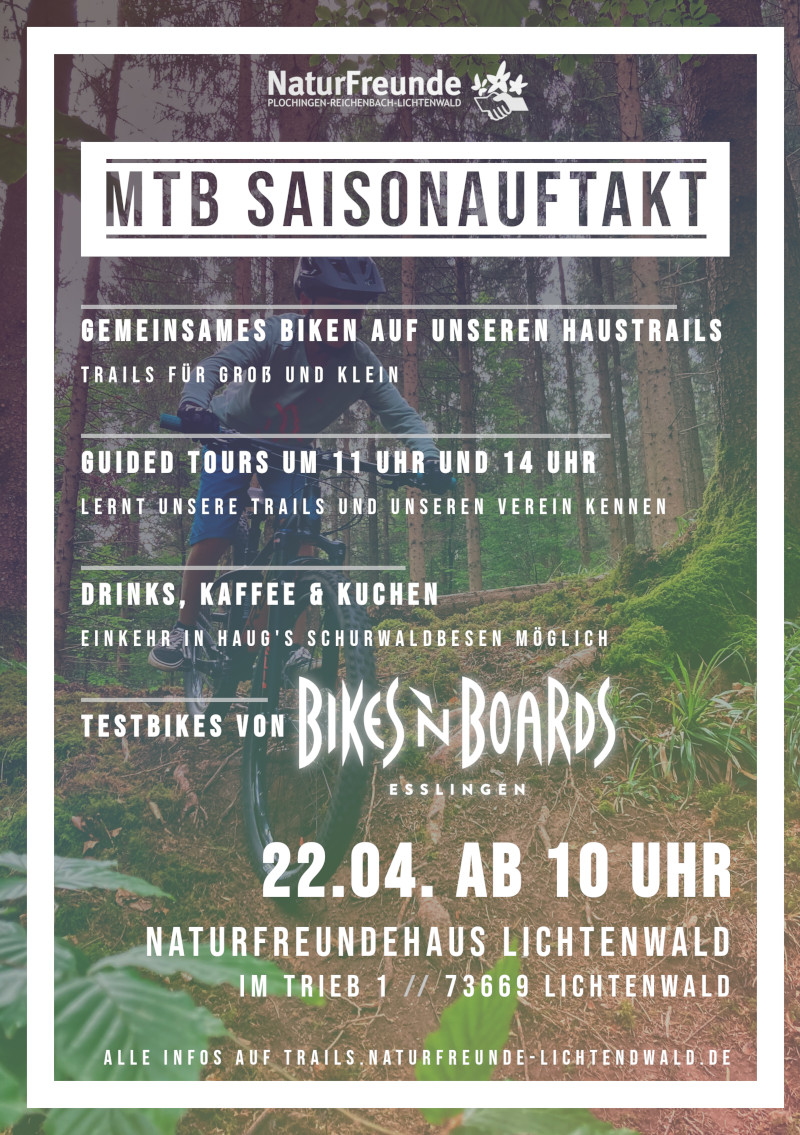
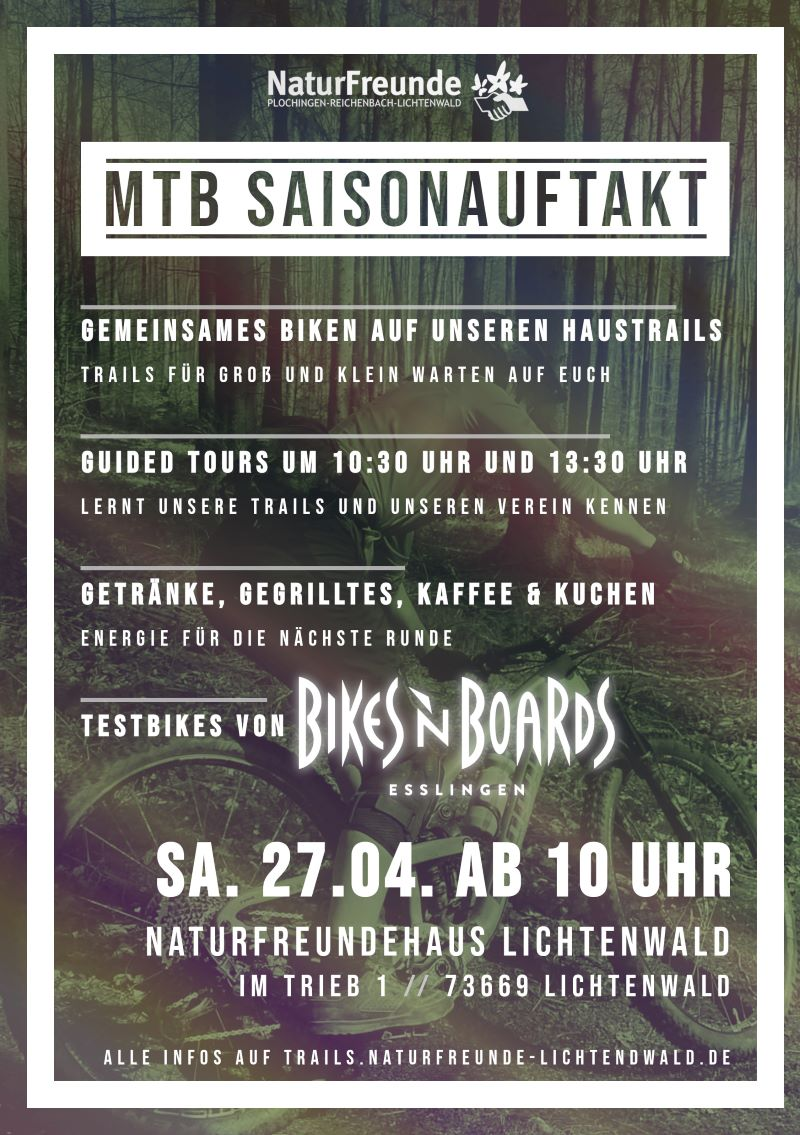
updated events for 2024

diff --git a/pages/events/index.js b/pages/events/index.js
@@ -5,16 +5,15 @@ export default function Events() {
   return (
     <div className="container">
       <Head>
-        <title>NaturFreunde Lichtenwald - MTB Saisonauftakt 2023</title>
+        <title>NaturFreunde Lichtenwald - MTB Saisonauftakt 2024</title>
         <link rel="icon" href="/favicon.ico" />
       </Head>
       <main className="main">
         <Navigation />
         <div>
-          <h1>MTB Saisonauftakt 2023</h1>
+          <h1>MTB Saisonauftakt 2024</h1>
           <p>
-            Wir laden euch herzlichst zu unserem Mountainbike Saisonauftakt 2023
-            ein.<br/>
+            Unser Mountainbike Saisonauftakt geht 2024 nach dem letztjährigen erfolgreichen und erlebnisreichen Debüt in die zweite Runde!<br/>
             Direkt bei unserem wunderschön gelegenen NaturFreundehaus wollen wir mit euch den Start in die Saison feiern.<br/><br/>
             Auf dieser Seite erfahrt ihr alle notwendigen Infos und wir werden sie stes aktualisieren.<b/>
             Bei Fragen kontaktiert uns gerne über <a className="actionLink" href="mailto:trails@naturfreunde-lichtenwald.de">trails@naturfreunde-lichtenwald.de</a>.
@@ -33,7 +32,7 @@ export default function Events() {
           <ul>
             <li>
               <a className="actionLink" href="#kaffee">
-                Drinks, Kaffee und Kuchen
+                Getränke, Gegrilltes, Kaffee & Kuchen
               </a>
             </li>
             <li>
@@ -54,16 +53,18 @@ export default function Events() {
           </ul>
 
           <div>
-            <img className="flyer" src="/saisonauftakt.jpg" alt="MTB Saisonauftakt 2023 Flyer" />
+            <img className="flyer" src="/saisonauftakt.jpg" alt="MTB Saisonauftakt 2024 Flyer" />
           </div>
           <div>
             <h3>
               <a id="kaffee" href="#kaffee">
-                Drinks, Kaffee und Kuchen
+              Getränke, Gegrilltes, Kaffee & Kuchen
               </a>
             </h3>
             <p>
-              Wir bieten gekühlte Getränke, Kaffee und Kuchen.<b/>
+              Wir bieten gekühlte Getränke, Kaffee und Kuchen.<br/>
+              Des Weiteren werden wir ab mittags, anders als im Vorjahr, auch Gegrilltes aus unserer Grillhütte anbieten.<br/>
+              Neben Rote, Bratwurst und Steaks wird es auch vegane Angebote geben.<br/>
               Wer darüberhinaus großen Hunger verspürt, dem können wir nur wärmstens eine Einkehr bei unserem Pächter Haug's Schurwaldbesen empfehlen. 
             </p>
 
@@ -73,10 +74,11 @@ export default function Events() {
               </a>
             </h3>
             <p>
-              Jeweils um 11 Uhr und 14 Uhr laden wir euch zu unseren gemeinsamen Hausrunde ein.<br/>
+              Jeweils um 10:30 Uhr und 13:30 Uhr laden wir euch zu unseren gemeinsamen Hausrunde ein.<br/>
               Wir passen diese Ausfahrt gerne auf die Anzahl oder Könnensstufe der Teilnehmer an.<br/>
               Ziel ist es einmal all unsere Trails zu fahren und dann noch den Ebertrail unserer Freunde des RVI Büchenbronn zu besuchen.<br/>
-              Wir rechnen mit ca. 500hm und 30km.
+              Wir rechnen mit ca. 500hm und 30km.<br/>
+              Falls wir auch genug Kinder zusammen bekommen, werden wir auch speziell für die Kleinen eine Runde anbieten. Liebe Eltern, denkt an die Abschleppseile.
             </p>
 
             <h3>
@@ -85,8 +87,7 @@ export default function Events() {
               </a>
             </h3>
             <p>
-              Als Highlight stellt unser Partner{' '}
-              <a href="https://www.bikesnboards.de/info/esslingen" className="actionLink">Bikes and Boards - Esslingen</a> Testbikes
+              Als Highlight stellt unser Partner <a href="https://www.bikesnboards.de/info/esslingen" className="actionLink">Bikes and Boards - Esslingen</a> Testbikes
               verschiedener Marken zur Verfügung! Falls ihr Interesse habt,
               vergesst euren Ausweis nicht und bringt einen Helm mit.
             </p>

diff --git a/components/Navigation.js b/components/Navigation.js
@@ -16,7 +16,7 @@ export default function Navigation() {
         <img src="/naturfreunde_logo.gif" alt="NaturFreunde Logo" />
       </div>
       <div className={router.pathname === '/events' ? styles.activeEventLink : styles.eventLink}>
-        <Link href="/events" alt="events">!! MTB Saisonauftakt 22.04.23 !!</Link>
+        <Link href="/events" alt="events">!! MTB Saisonauftakt 27.04.24 !!</Link>
       </div>
       <nav className={styles.navbar}>
         <ul>
